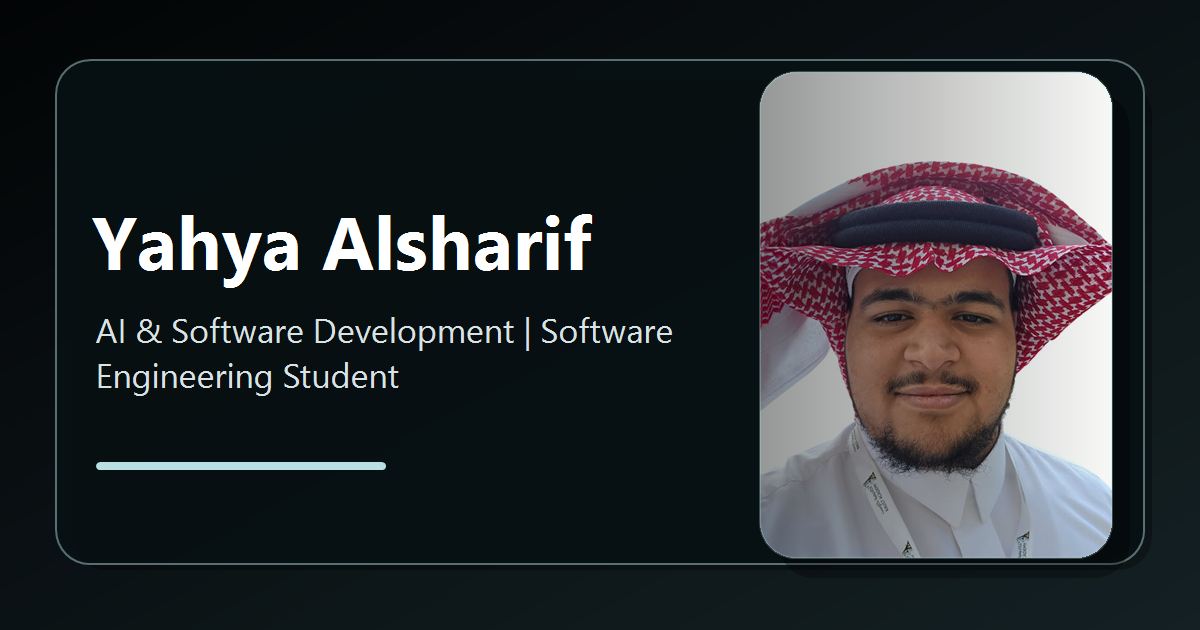
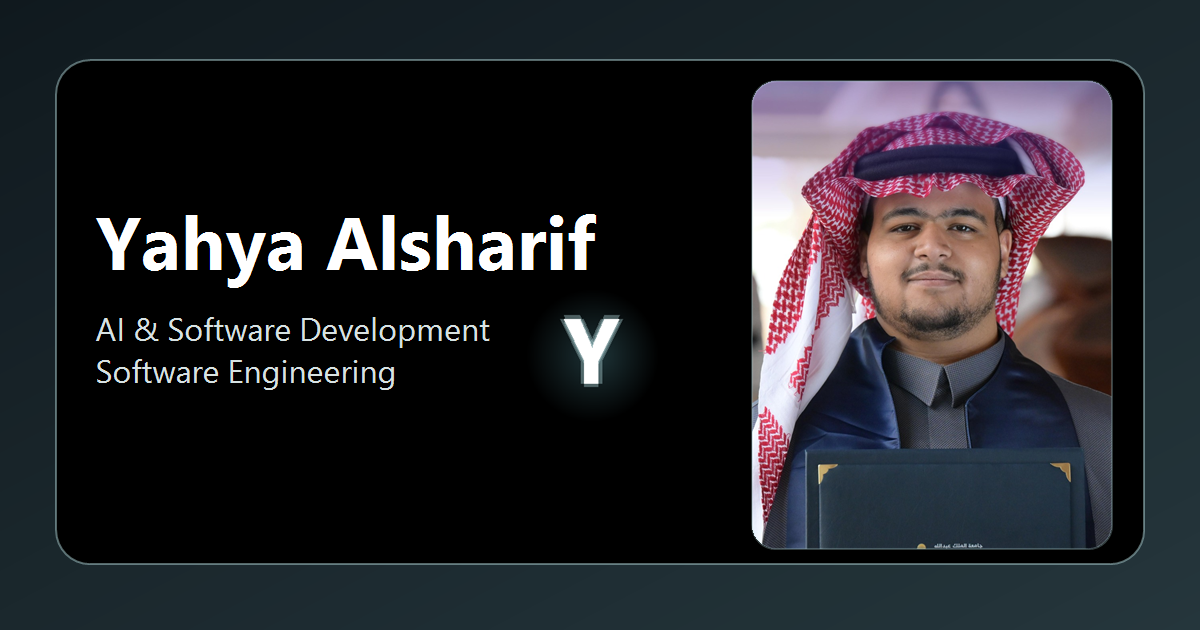
feat: refresh portfolio with graduation update and social preview

diff --git a/src/data/content.ts b/src/data/content.ts
@@ -183,11 +183,14 @@ const links = {
     'https://www.kaggle.com/code/ghostylicious/3rd-place-object-centric-convnext-unet-distance',
   kaggleInpaintingRepository: 'https://github.com/YahyaAlsharif/Kaggle_inpainting_comp',
   kaggleInpainting: 'https://www.kaggle.com/code/ghostylicious/mi-gan-inpainting-comp-03',
+  postGraduation: 'https://www.linkedin.com/feed/update/urn:li:ugcPost:7502789692703272960',
   postSummerInternship: 'https://www.linkedin.com/feed/update/urn:li:ugcPost:7496956199477600256',
   postCellSegmentation: 'https://www.linkedin.com/feed/update/urn:li:ugcPost:7491964300434030592',
   postSummerSchool: 'https://www.linkedin.com/feed/update/urn:li:share:7479585722992226305',
   postEsas: 'https://www.linkedin.com/feed/update/urn:li:ugcPost:7470469804227932160',
   postKaust: 'https://www.linkedin.com/feed/update/urn:li:ugcPost:7439279422131589120',
+  embedGraduation:
+    'https://www.linkedin.com/embed/feed/update/urn:li:ugcPost:7502789692703272960?collapsed=1',
   embedSummerInternship:
     'https://www.linkedin.com/embed/feed/update/urn:li:ugcPost:7496956199477600256?collapsed=1',
   embedCellSegmentation:
@@ -228,12 +231,12 @@ export const localizedContent: Record<Language, DashboardContent> = {
     hero: {
       title: "Hi, I'm Yahya Alsharif.",
       proof:
-        'Software Engineering Student | KAUST Academy AI Intern | Top 100 of 14,000+ Applicants',
+        'AI & Software Development | Software Engineering',
       intro:
         'I take AI models end to end, from data and label design through training and evaluation to quantisation and measured deployment on the hardware they will actually run on.',
       profileName: 'Yahya Alsharif',
       profileLocation: 'Makkah Region, Saudi Arabia',
-      profileAlt: 'Yahya Alsharif',
+      profileAlt: 'Yahya Alsharif at his KAUST Academy graduation',
       links: [
         { label: 'View CV', href: '#cv' },
         { label: 'Experience', href: '#experience' },
@@ -512,6 +515,14 @@ export const localizedContent: Record<Language, DashboardContent> = {
       positionLabel: (current, total) => `Post ${current} of ${total}`,
       items: [
         {
+          title: 'Completing the KAUST Academy AI Specialization',
+          description:
+            'Reflecting on the final eight-week summer program, presenting OnKith and my privacy-intelligence work at KAUST, and the people who made this journey possible.',
+          embedUrl: links.embedGraduation,
+          postUrl: links.postGraduation,
+          iframeTitle: 'LinkedIn post about completing the KAUST Academy AI Specialization',
+        },
+        {
           title: 'Eight weeks at KAUST Academy',
           description:
             'Finishing the eight-week KAUST Academy AI Summer Internship, covering computer vision, NLP, generative models, reinforcement learning and Edge AI, alongside the OnKith privacy model and its Raspberry Pi 5 deployment.',
@@ -610,12 +621,12 @@ export const localizedContent: Record<Language, DashboardContent> = {
     hero: {
       title: 'مرحبًا، أنا يحيى الشريف.',
       proof:
-        'طالب هندسة برمجيات | متدرب ذكاء اصطناعي في أكاديمية كاوست | ضمن أفضل 100 من أكثر من 14,000 متقدم',
+        'الذكاء الاصطناعي وتطوير البرمجيات | هندسة البرمجيات',
       intro:
         'أعمل على نماذج الذكاء الاصطناعي من البداية إلى النهاية: تصميم البيانات والتسميات، ثم التدريب والتقييم، وصولًا إلى الضغط والقياس الفعلي على الجهاز الذي ستعمل عليه.',
       profileName: 'يحيى الشريف',
       profileLocation: 'منطقة مكة المكرمة، المملكة العربية السعودية',
-      profileAlt: 'يحيى الشريف',
+      profileAlt: 'يحيى الشريف في حفل تخرجه من أكاديمية كاوست',
       links: [
         { label: 'عرض السيرة الذاتية', href: '#cv' },
         { label: 'الخبرة', href: '#experience' },
@@ -895,6 +906,14 @@ export const localizedContent: Record<Language, DashboardContent> = {
       nextButton: 'المنشور التالي',
       positionLabel: (current, total) => `المنشور ${current} من ${total}`,
       items: [
+        {
+          title: 'إتمام تخصص الذكاء الاصطناعي في أكاديمية كاوست',
+          description:
+            'تأملات في البرنامج الصيفي الختامي لمدة ثمانية أسابيع، وعرض OnKith وعملي في ذكاء الخصوصية في كاوست، والأشخاص الذين ساهموا في هذه الرحلة.',
+          embedUrl: links.embedGraduation,
+          postUrl: links.postGraduation,
+          iframeTitle: 'منشور LinkedIn عن إتمام تخصص الذكاء الاصطناعي في أكاديمية كاوست',
+        },
         {
           title: 'ثمانية أسابيع في أكاديمية كاوست',
           description:

diff --git a/index.html b/index.html
@@ -5,7 +5,7 @@
     <meta name="viewport" content="width=device-width, initial-scale=1.0" />
     <meta
       name="description"
-      content="AI &amp; Software Development | Software Engineering Student. Yahya Alsharif builds practical AI and software projects with a focus on reliable, user-centered solutions."
+      content="AI &amp; Software Development | Software Engineering. Yahya Alsharif builds practical AI and software projects with a focus on reliable, user-centered solutions."
     />
     <meta name="author" content="Yahya Alsharif" />
     <meta name="theme-color" content="#ffffff" />
@@ -16,7 +16,7 @@
     <link rel="shortcut icon" href="%BASE_URL%favicon.ico" />
     <meta
       property="og:title"
-      content="AI &amp; Software Development | Software Engineering Student"
+      content="AI &amp; Software Development | Software Engineering"
     />
     <meta
       property="og:description"
@@ -32,12 +32,12 @@
     <meta property="og:image:height" content="630" />
     <meta
       property="og:image:alt"
-      content="Yahya Alsharif portfolio preview with the title AI &amp; Software Development | Software Engineering Student."
+      content="Yahya Alsharif portfolio preview with his KAUST Academy graduation portrait and the subtitle AI &amp; Software Development | Software Engineering."
     />
     <meta name="twitter:card" content="summary_large_image" />
     <meta
       name="twitter:title"
-      content="AI &amp; Software Development | Software Engineering Student"
+      content="AI &amp; Software Development | Software Engineering"
     />
     <meta
       name="twitter:description"
@@ -47,7 +47,7 @@
       name="twitter:image"
       content="https://yahyaalsharif.github.io/personal-dashboard/social-preview.png"
     />
-    <title>Yahya Alsharif | AI &amp; Software Development | Software Engineering Student</title>
+    <title>Yahya Alsharif | AI &amp; Software Development | Software Engineering</title>
   </head>
   <body>
     <script>

diff --git a/src/sections/IntroSection.tsx b/src/sections/IntroSection.tsx
@@ -121,7 +121,7 @@ export function IntroSection() {
             <img
               src={portraitSrc}
               alt={hero.profileAlt}
-              width="900"
+              width="960"
               height="1200"
               className="profile-frame-image"
             />

diff --git a/src/styles/index.css b/src/styles/index.css
@@ -297,9 +297,10 @@ a {
 .profile-frame-image {
   display: block;
   width: 100%;
+  height: auto;
   aspect-ratio: 4 / 5;
   object-fit: cover;
-  object-position: 50% 12%;
+  object-position: 50% 50%;
   background: #ffffff;
 }
 
